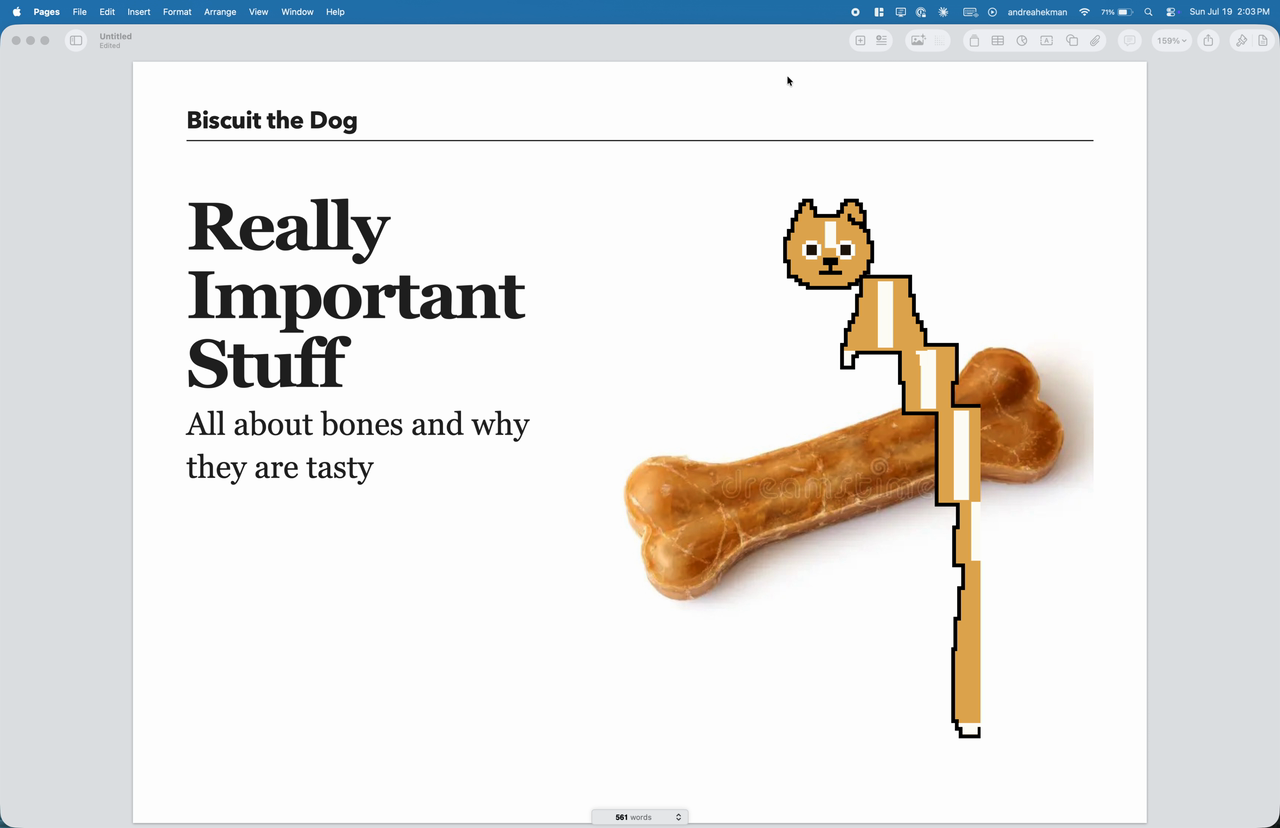
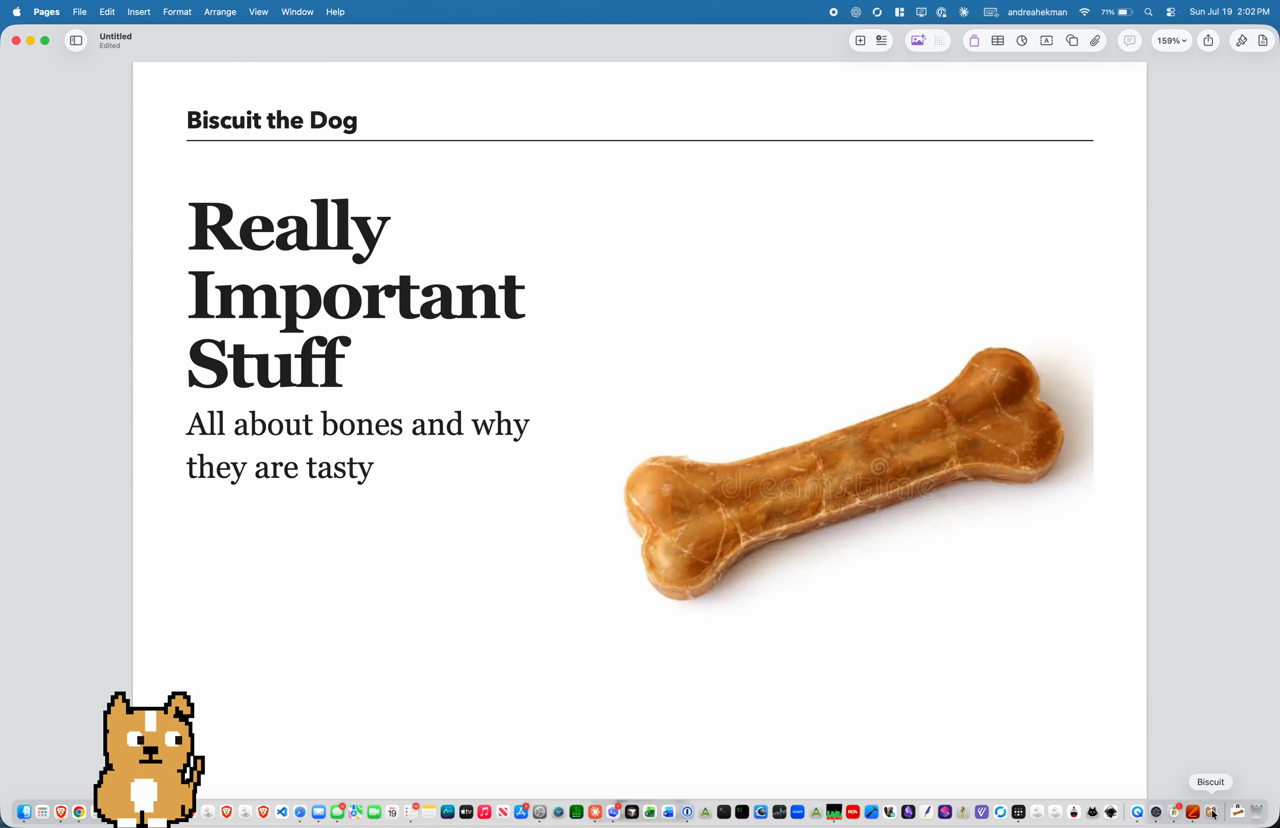
Launch: live checkout URLs, coffee bundle, download page, demo video

diff --git a/download.html b/download.html
@@ -1,0 +1,85 @@
+<!doctype html>
+<html lang="en">
+<head>
+  <meta charset="utf-8">
+  <meta name="viewport" content="width=device-width, initial-scale=1">
+  <title>Download Biscuit</title>
+  <meta name="description" content="Already adopted Biscuit? Download the app and wake him with the license key from your receipt email.">
+  <meta name="robots" content="noindex">
+  <link rel="icon" type="image/png" href="assets/img/favicon.png">
+  <link rel="stylesheet" href="styles.css">
+  <link rel="preload" href="assets/fonts/outfit-700.woff2" as="font" type="font/woff2" crossorigin>
+  <style>
+    /* Page-local layout only; all look-and-feel comes from styles.css. */
+    .dl { max-width: 720px; margin: 0 auto; padding: clamp(3rem, 8vw, 6rem) clamp(1.2rem, 4vw, 2.4rem); }
+    .dl-sub { margin-top: 1.2rem; font-size: clamp(1.05rem, 1.7vw, 1.32rem); color: var(--ink-soft); max-width: 46ch; }
+    .dl-cta { margin-top: 2rem; }
+    .dl-note { margin-top: 0.8rem; font-size: 0.92rem; color: var(--ink-soft); }
+    .dl-steps { margin-top: clamp(2.5rem, 5vw, 4rem); }
+    .dl-steps h2 { font-size: clamp(1.3rem, 2.4vw, 1.7rem); }
+    .dl-steps ol { margin: 1.2rem 0 0; padding: 0; list-style: none; display: grid; gap: 0.7rem; counter-reset: step; }
+    .dl-steps li {
+      counter-increment: step; display: flex; gap: 0.9rem; align-items: baseline;
+      background: var(--bg-2); border: 1px solid var(--line); border-radius: 14px;
+      padding: 1rem 1.3rem; color: var(--ink-soft);
+    }
+    .dl-steps li::before { content: counter(step); font-weight: 800; color: var(--accent); }
+    .dl-help { margin-top: clamp(2rem, 4vw, 3rem); color: var(--ink-soft); }
+    .dl-help a { color: var(--accent); }
+  </style>
+</head>
+<body>
+  <div class="grain" aria-hidden="true"></div>
+
+  <header class="nav" id="top">
+    <a class="brand" href="index.html" aria-label="Biscuit home">
+      <span class="brand-mark" data-cat="brand" aria-hidden="true"></span>
+      <span class="brand-name">Biscuit</span>
+    </a>
+    <nav class="nav-links" aria-label="Primary">
+      <a href="index.html#demo">Demo</a>
+      <a href="index.html#price">Price</a>
+      <a href="index.html#faq">FAQ</a>
+    </nav>
+    <a class="btn btn-primary nav-cta" href="https://github.com/nathan-hekman/biscuit-releases/releases/latest">Download</a>
+  </header>
+
+  <main>
+    <section class="dl">
+      <h1 class="hero-title">Download Biscuit.</h1>
+      <p class="dl-sub">Already adopted? Grab the app below, then wake Biscuit with the license key from your receipt email.</p>
+      <div class="dl-cta">
+        <a class="btn btn-primary btn-lg" href="https://github.com/nathan-hekman/biscuit-releases/releases/latest">Download for Apple Silicon</a>
+        <p class="dl-note">M1 or newer, macOS 12 Monterey or later. The download is a DMG.</p>
+      </div>
+
+      <div class="dl-steps">
+        <h2>After downloading</h2>
+        <ol>
+          <li>Open the DMG and drag Biscuit into Applications.</li>
+          <li>Open Biscuit and enter the license key from your receipt email. The same key works across your Macs, up to 5.</li>
+          <li>Grant Accessibility permission so Biscuit can react to your typing. He knows a key was pressed, never which one.</li>
+        </ol>
+      </div>
+
+      <p class="dl-help">Stuck, or can&rsquo;t find your key? Email <a href="mailto:[email redacted]">[email redacted]</a> and a human will sort it out.</p>
+    </section>
+  </main>
+
+  <footer class="foot">
+    <div class="foot-brand">
+      <span class="brand-mark sm" data-cat="footmark" aria-hidden="true"></span>
+      <span>Biscuit</span>
+    </div>
+    <p class="foot-line">Made by one person.</p>
+    <nav class="foot-links" aria-label="Footer">
+      <a href="index.html#price">Price</a>
+      <a href="index.html#faq">FAQ</a>
+      <a href="mailto:[email redacted]">Say hi</a>
+    </nav>
+    <p class="foot-copy">© 2026 Biscuit</p>
+  </footer>
+
+  <script src="app.js"></script>
+</body>
+</html>

diff --git a/app.js b/app.js
@@ -2,21 +2,19 @@
 (() => {
   "use strict";
 
-  // Lemon Squeezy hosted checkout. Swap this for the real product/variant URL
-  // once the store exists; the overlay + Apple Pay then work automatically.
-  const BUY_URL = "https://biscuit-dog.lemonsqueezy.com/checkout/buy/65e7e272-692e-43a6-a4c6-3242d63c04b4";
+  // Lemon Squeezy hosted checkout (live-mode variant, verified 2026-07-21).
+  const BUY_URL = "https://biscuit-dog.lemonsqueezy.com/checkout/buy/233c71d6-f1f8-4cf7-afd8-191492b2b353";
 
   // Optional "buy the developer a coffee" add-on. Lemon Squeezy has no concept
   // of an order bump on a hosted checkout, so the add-on is a SECOND product
   // (app + coffee) and ticking the box swaps which checkout opens.
   //
-  // BUNDLE_URL is empty until that second product exists. While it is empty the
-  // whole add-on hides itself (see initCoffee) rather than offering a box that
-  // would open a dead checkout. Paste the bundle's buy URL here to switch it on.
-  const BUNDLE_URL = "";
+  // Bundle product "Biscuit + Coffee for the Developer" ($5, live-mode variant).
+  // If this is ever emptied again, the whole add-on hides itself (see initCoffee).
+  const BUNDLE_URL = "https://biscuit-dog.lemonsqueezy.com/checkout/buy/e3e8ce05-d680-4553-bdaa-d2b084cb6491";
 
   const APP_PRICE = 3;     // display only; Lemon Squeezy is the source of truth
-  const COFFEE_PRICE = 3;  // display only
+  const COFFEE_PRICE = 2;  // display only
 
   const coffeeAvailable = () => BUNDLE_URL !== "";
   const coffeeChecked = () => !!document.querySelector("[data-coffee]:checked");

diff --git a/index.html b/index.html
@@ -144,10 +144,11 @@
             <strong>Buy the developer a coffee</strong>
             <small>Optional. Biscuit is made by one person.</small>
           </span>
-          <span class="coffee-price">+$3</span>
+          <span class="coffee-price">+$2</span>
         </label>
         <div class="price-total" data-coffee-block><span>Total</span><span data-total>$3</span></div>
         <button class="btn btn-primary btn-lg price-buy" data-buy>Adopt Biscuit <span class="price-chip">$3</span></button>
+        <p class="price-alt">Already purchased? <a href="download.html">Download Biscuit</a></p>
       </div>
     </section>
 
@@ -167,7 +168,7 @@
         </details>
         <details class="faq-item reveal">
           <summary>What if I change my mind?<i class="ph ph-plus" aria-hidden="true"></i></summary>
-          <div class="faq-body"><p>Email [email redacted] within 14 days and we will refund you.</p></div>
+          <div class="faq-body"><p>Email [email redacted] within 14 days and we will refund you. Bought him and lost the app? <a href="download.html">Download it again</a>.</p></div>
         </details>
       </div>
     </section>

diff --git a/styles.css b/styles.css
@@ -298,6 +298,8 @@ figure { margin: 0; }
 .price-list li { display: flex; align-items: center; gap: 0.7rem; font-weight: 500; }
 .price-list i { color: var(--accent-strong); font-size: 1.1rem; background: var(--bg-tint); border-radius: 50%; padding: 0.28rem; }
 .price-buy { margin-top: 0.4rem; }
+.price-alt { margin-top: 1.1rem; font-size: 0.92rem; color: var(--ink-soft); }
+.price-alt a { color: var(--accent); }
 .price-fine { margin-top: 1rem; font-size: 0.88rem; color: var(--ink-soft); }
 
 /* ---------- faq ---------- */